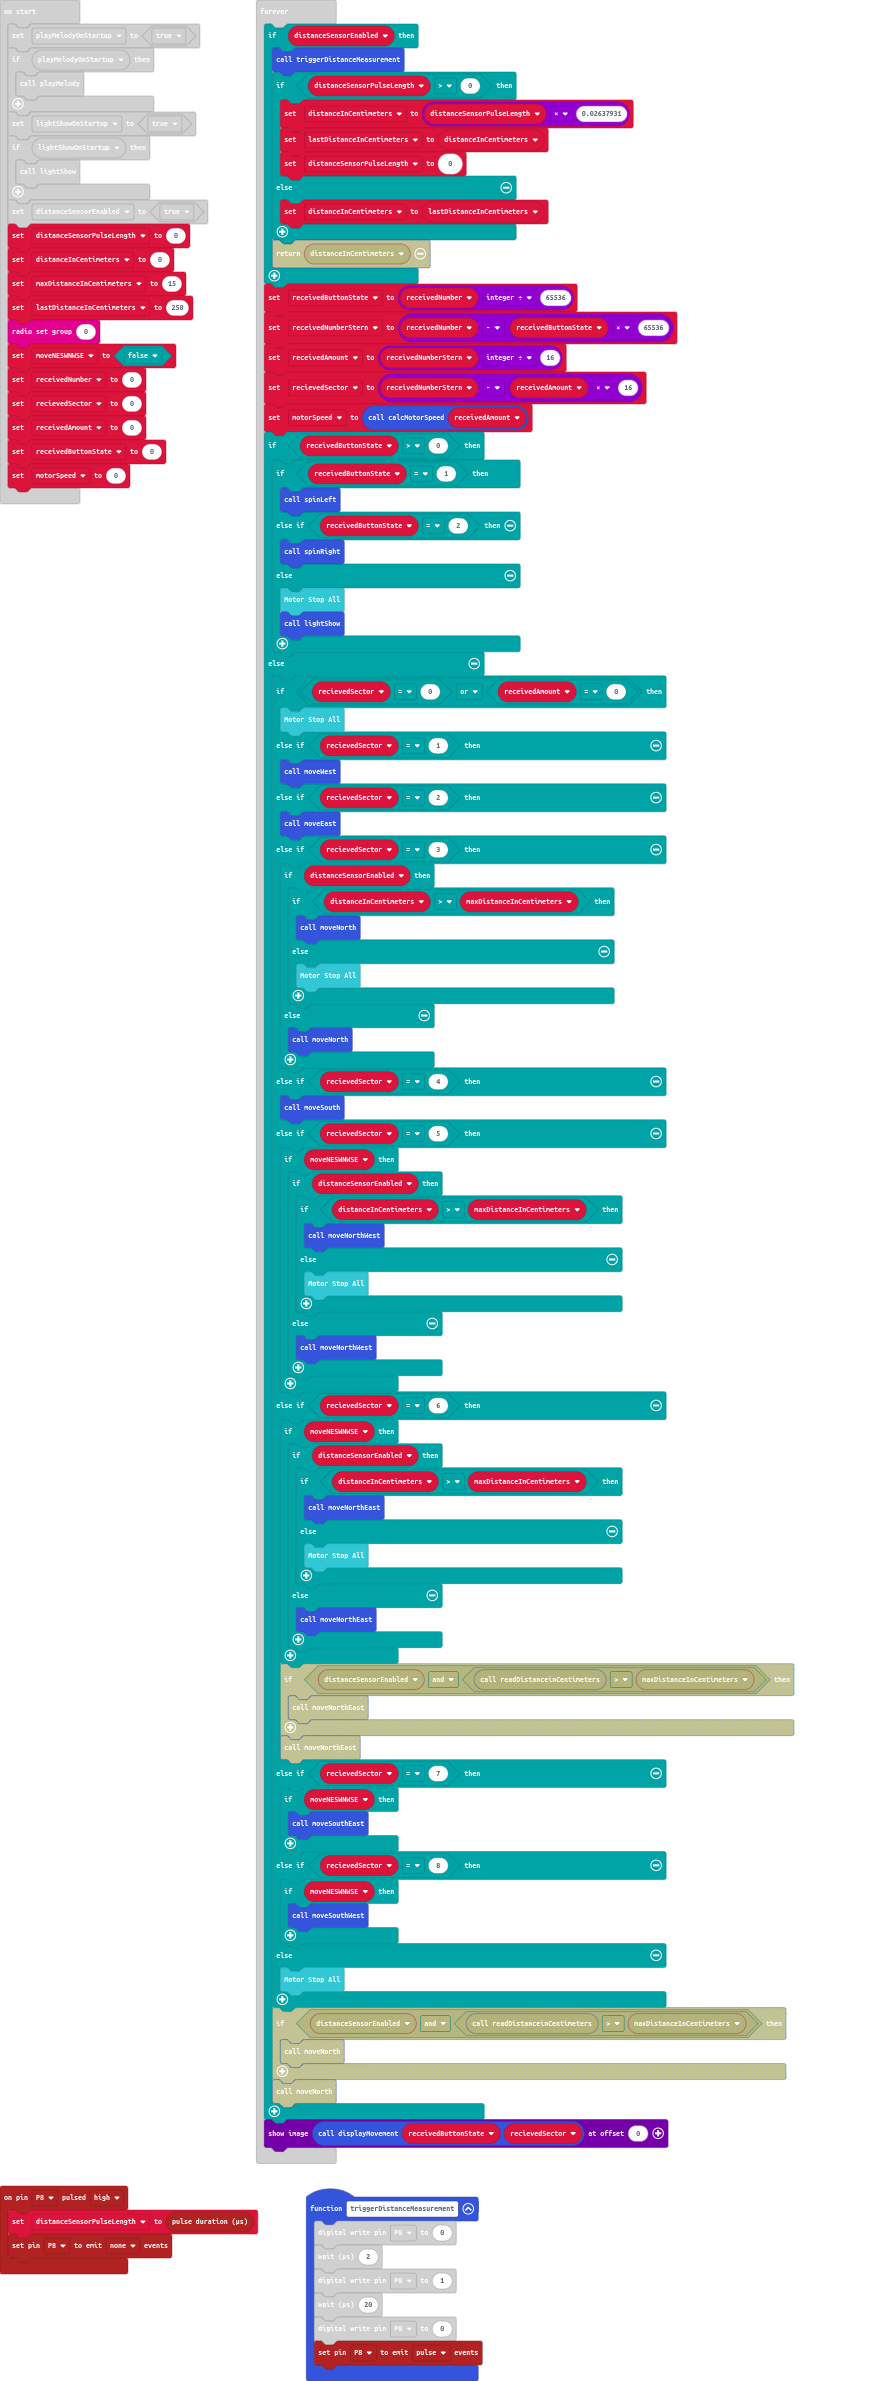
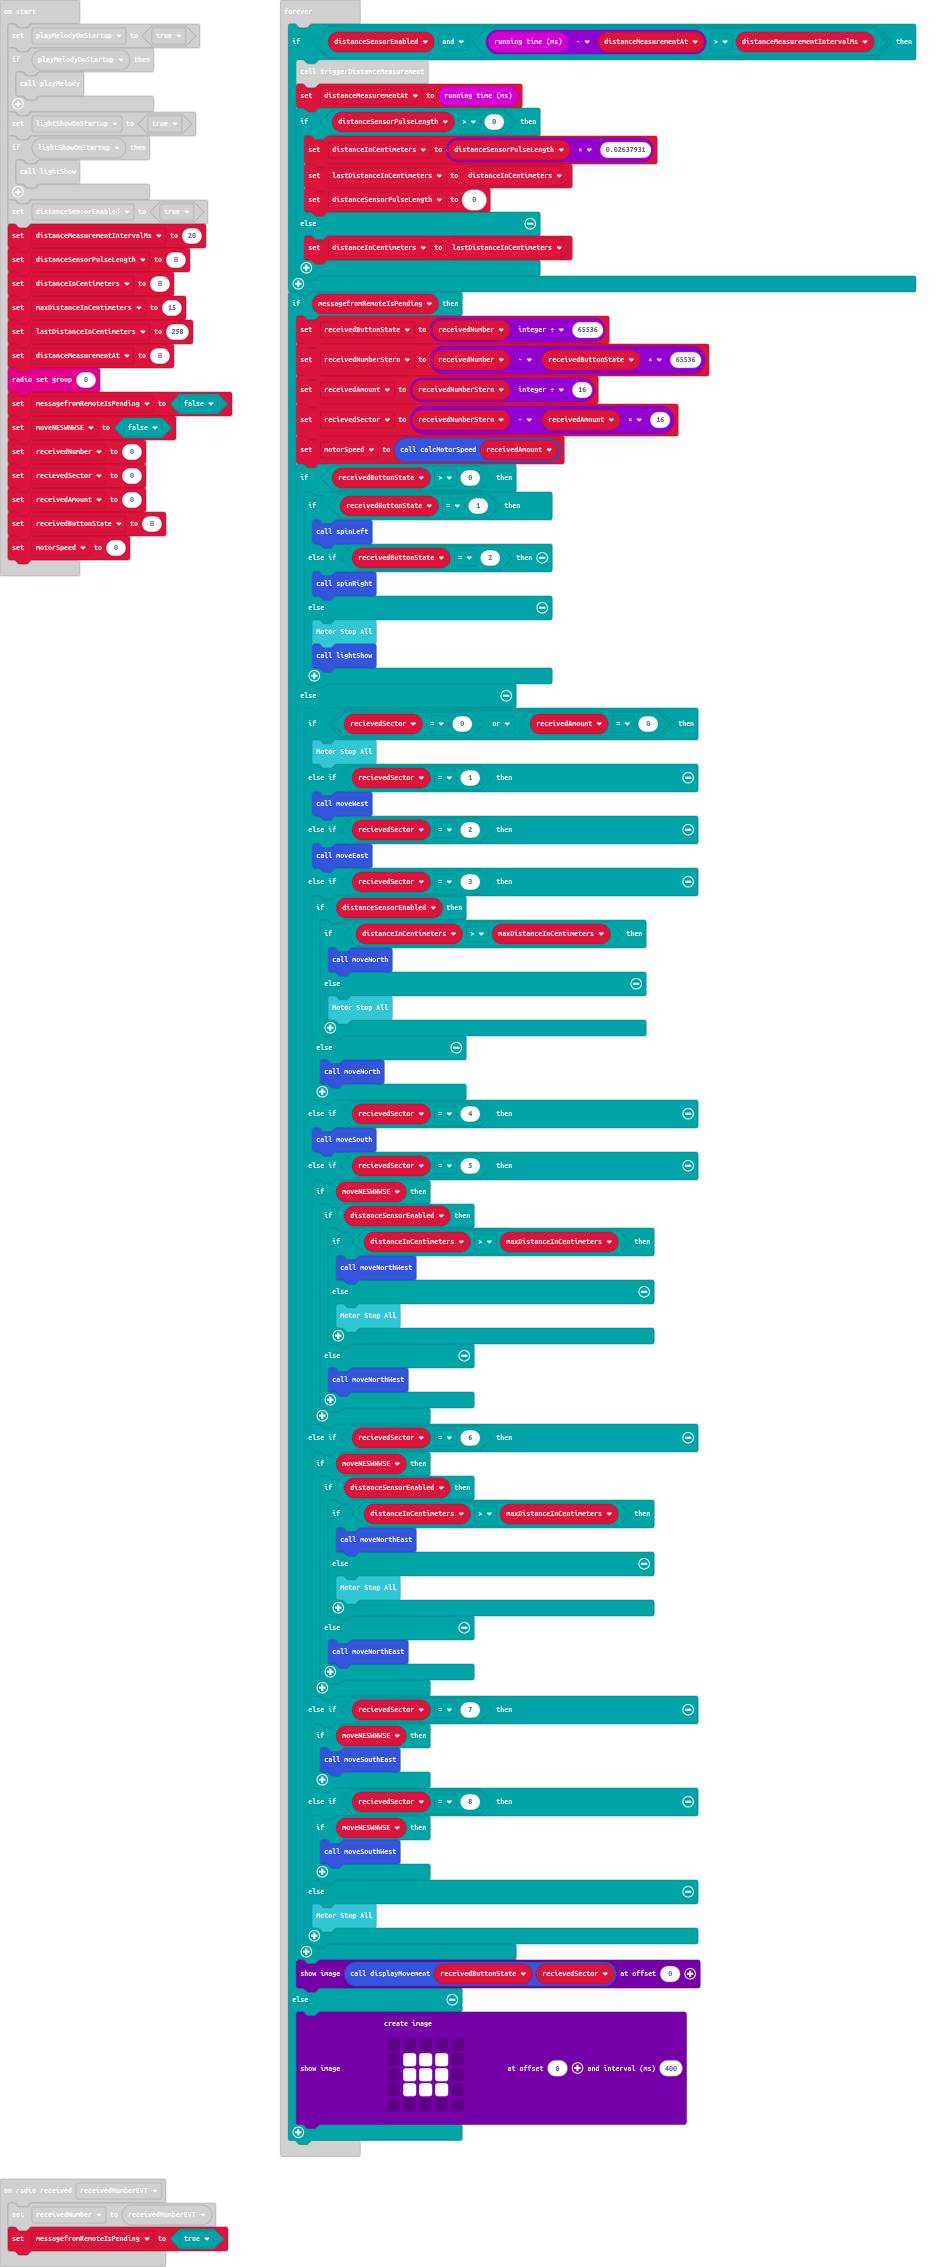
DistanceMeasurement maximal 50 mal pro Sekunde (20 ms interval)

diff --git a/main.ts b/main.ts
@@ -80,6 +80,7 @@ function moveNorthWest () {
 }
 radio.onReceivedNumberDeprecated(function (receivedNumberEVT) {
     receivedNumber = receivedNumberEVT
+    messagefromRemoteIsPending = true
 })
 function moveNorth () {
     robotbit.MotorRunDual(
@@ -255,6 +256,7 @@ let strip: neopixel.Strip = null
 let colors: number[] = []
 let motorSpeed = 0
 let receivedNumber = 0
+let messagefromRemoteIsPending = false
 let distanceSensorPulseLength = 0
 let playMelodyOnStartup = true
 if (playMelodyOnStartup) {
@@ -265,11 +267,14 @@ if (lightShowOnStartup) {
     lightShow()
 }
 let distanceSensorEnabled = true
+let distanceMeasurementIntervalMs = 20
 distanceSensorPulseLength = 0
 let distanceInCentimeters = 0
 let maxDistanceInCentimeters = 15
 let lastDistanceInCentimeters = 250
+let distanceMeasurementAt = 0
 radio.setGroup(0)
+messagefromRemoteIsPending = false
 let moveNESWNWSE = false
 receivedNumber = 0
 let recievedSector = 0
@@ -277,8 +282,9 @@ let receivedAmount = 0
 let receivedButtonState = 0
 motorSpeed = 0
 basic.forever(function () {
-    if (distanceSensorEnabled) {
+    if (distanceSensorEnabled && input.runningTime() - distanceMeasurementAt > distanceMeasurementIntervalMs) {
         triggerDistanceMeasurement()
+        distanceMeasurementAt = input.runningTime()
         if (distanceSensorPulseLength > 0) {
             distanceInCentimeters = distanceSensorPulseLength * 0.02637931
             lastDistanceInCentimeters = distanceInCentimeters
@@ -287,74 +293,84 @@ basic.forever(function () {
             distanceInCentimeters = lastDistanceInCentimeters
         }
     }
-    receivedButtonState = Math.idiv(receivedNumber, 65536)
-    receivedNumberStern = receivedNumber - receivedButtonState * 65536
-    receivedAmount = Math.idiv(receivedNumberStern, 16)
-    recievedSector = receivedNumberStern - receivedAmount * 16
-    motorSpeed = calcMotorSpeed(receivedAmount)
-    if (receivedButtonState > 0) {
-        if (receivedButtonState == 1) {
-            spinLeft()
-        } else if (receivedButtonState == 2) {
-            spinRight()
+    if (messagefromRemoteIsPending) {
+        receivedButtonState = Math.idiv(receivedNumber, 65536)
+        receivedNumberStern = receivedNumber - receivedButtonState * 65536
+        receivedAmount = Math.idiv(receivedNumberStern, 16)
+        recievedSector = receivedNumberStern - receivedAmount * 16
+        motorSpeed = calcMotorSpeed(receivedAmount)
+        if (receivedButtonState > 0) {
+            if (receivedButtonState == 1) {
+                spinLeft()
+            } else if (receivedButtonState == 2) {
+                spinRight()
+            } else {
+                robotbit.MotorStopAll()
+                lightShow()
+            }
         } else {
-            robotbit.MotorStopAll()
-            lightShow()
-        }
-    } else {
-        if (recievedSector == 0 || receivedAmount == 0) {
-            robotbit.MotorStopAll()
-        } else if (recievedSector == 1) {
-            moveWest()
-        } else if (recievedSector == 2) {
-            moveEast()
-        } else if (recievedSector == 3) {
-            if (distanceSensorEnabled) {
-                if (distanceInCentimeters > maxDistanceInCentimeters) {
-                    moveNorth()
+            if (recievedSector == 0 || receivedAmount == 0) {
+                robotbit.MotorStopAll()
+            } else if (recievedSector == 1) {
+                moveWest()
+            } else if (recievedSector == 2) {
+                moveEast()
+            } else if (recievedSector == 3) {
+                if (distanceSensorEnabled) {
+                    if (distanceInCentimeters > maxDistanceInCentimeters) {
+                        moveNorth()
+                    } else {
+                        robotbit.MotorStopAll()
+                    }
                 } else {
-                    robotbit.MotorStopAll()
+                    moveNorth()
+                }
+            } else if (recievedSector == 4) {
+                moveSouth()
+            } else if (recievedSector == 5) {
+                if (moveNESWNWSE) {
+                    if (distanceSensorEnabled) {
+                        if (distanceInCentimeters > maxDistanceInCentimeters) {
+                            moveNorthWest()
+                        } else {
+                            robotbit.MotorStopAll()
+                        }
+                    } else {
+                        moveNorthWest()
+                    }
+                }
+            } else if (recievedSector == 6) {
+                if (moveNESWNWSE) {
+                    if (distanceSensorEnabled) {
+                        if (distanceInCentimeters > maxDistanceInCentimeters) {
+                            moveNorthEast()
+                        } else {
+                            robotbit.MotorStopAll()
+                        }
+                    } else {
+                        moveNorthEast()
+                    }
+                }
+            } else if (recievedSector == 7) {
+                if (moveNESWNWSE) {
+                    moveSouthEast()
+                }
+            } else if (recievedSector == 8) {
+                if (moveNESWNWSE) {
+                    moveSouthWest()
                 }
             } else {
-                moveNorth()
+                robotbit.MotorStopAll()
             }
-        } else if (recievedSector == 4) {
-            moveSouth()
-        } else if (recievedSector == 5) {
-            if (moveNESWNWSE) {
-                if (distanceSensorEnabled) {
-                    if (distanceInCentimeters > maxDistanceInCentimeters) {
-                        moveNorthWest()
-                    } else {
-                        robotbit.MotorStopAll()
-                    }
-                } else {
-                    moveNorthWest()
-                }
-            }
-        } else if (recievedSector == 6) {
-            if (moveNESWNWSE) {
-                if (distanceSensorEnabled) {
-                    if (distanceInCentimeters > maxDistanceInCentimeters) {
-                        moveNorthEast()
-                    } else {
-                        robotbit.MotorStopAll()
-                    }
-                } else {
-                    moveNorthEast()
-                }
-            }
-        } else if (recievedSector == 7) {
-            if (moveNESWNWSE) {
-                moveSouthEast()
-            }
-        } else if (recievedSector == 8) {
-            if (moveNESWNWSE) {
-                moveSouthWest()
-            }
-        } else {
-            robotbit.MotorStopAll()
         }
+        displayMovement(receivedButtonState, recievedSector).showImage(0)
+    } else {
+        images.createImage(`
+            . . . . .
+            . # # # .
+            . # # # .
+            . # # # .
+            . . . . .
+            `).showImage(0)
     }
-    displayMovement(receivedButtonState, recievedSector).showImage(0)
 })
